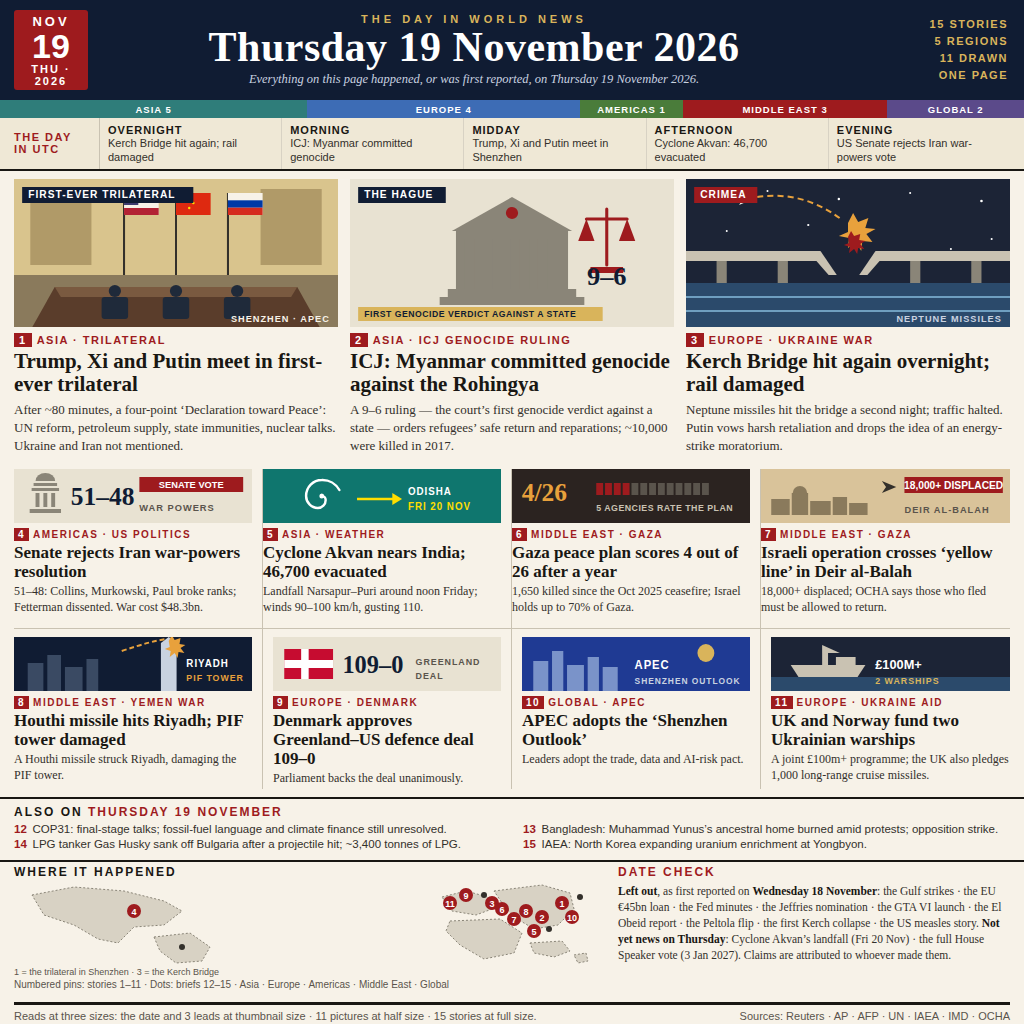
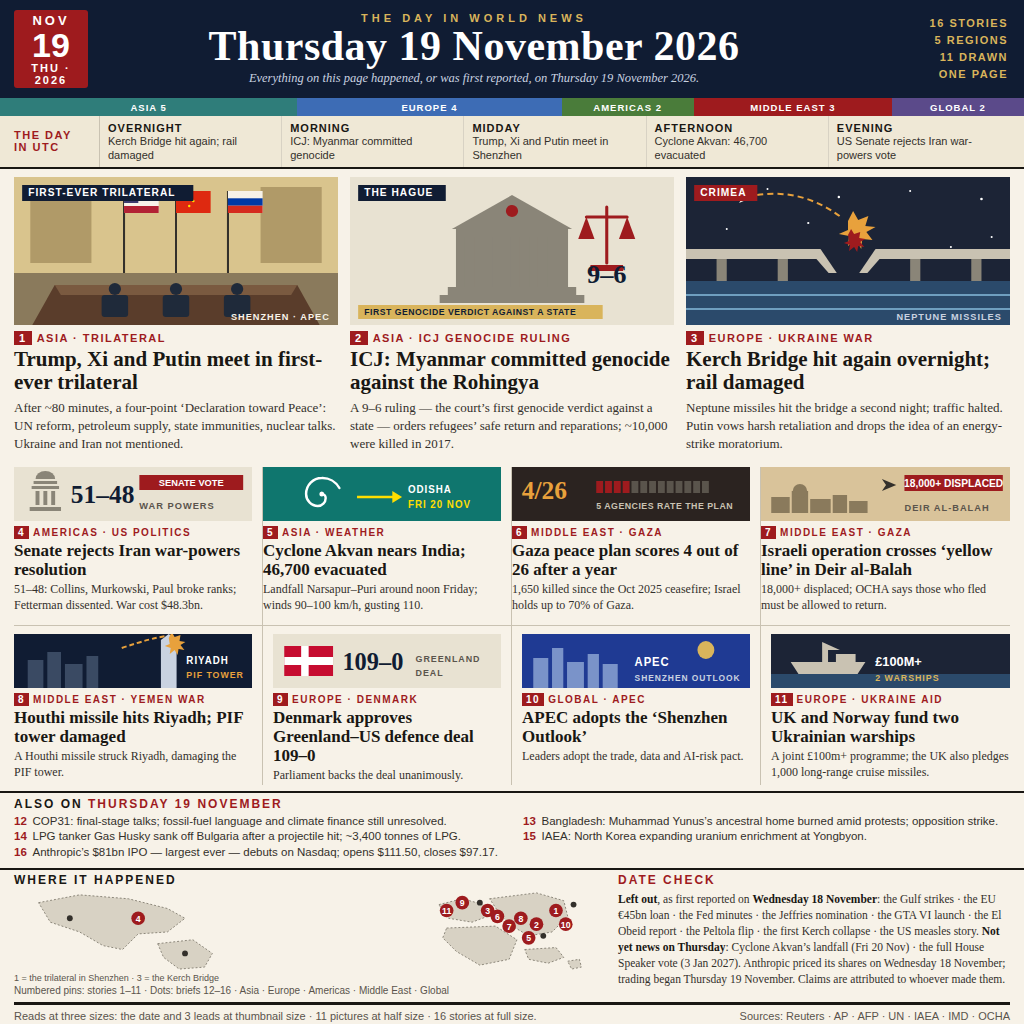
Add Anthropic IPO as brief 16 (16 stories); AMERICAS 1->2, map dot + DATE CHECK note

Changed region(s): [[0.0, 0.2188, 1.0, 0.9688], [0.0, 0.0, 1.0, 0.2188]]

diff --git a/README.md b/README.md
@@ -6,9 +6,9 @@
 
 Entry for the make.fun bounty [Sum up 19 November's world news in one image](https://make.fun/bounty/news-image-20261119).
 
-A dense newspaper-style image summing up the world's news of Thursday 19 November 2026 — 15 stories on one page: a navy masthead with the date, a "THE DAY IN UTC" timeline, three illustrated lead stories, eight cards, a numbered briefs strip, a "WHERE IT HAPPENED" map and a "DATE CHECK" footer.
+A dense newspaper-style image summing up the world's news of Thursday 19 November 2026 — 16 stories on one page: a navy masthead with the date, a "THE DAY IN UTC" timeline, three illustrated lead stories, eight cards, a numbered briefs strip, a "WHERE IT HAPPENED" map and a "DATE CHECK" footer.
 
-Leads: the first-ever Trump–Xi–Putin trilateral in Shenzhen ends in a four-point "Declaration toward Peace"; the ICJ rules Myanmar committed genocide against the Rohingya, 9–6; the Kerch Bridge is hit again overnight, rail damaged. Cards: the US Senate rejects the Iran war-powers resolution 51–48; Cyclone Akvan nears India with 46,700 evacuated; five aid agencies score the Gaza peace plan 4/26 after a year; an Israeli operation crosses the "yellow line" in Deir al-Balah, 18,000+ displaced; a Houthi missile hits Riyadh, damaging the PIF tower; Denmark approves the Greenland–US defence deal 109–0; APEC adopts the "Shenzhen Outlook"; the UK and Norway fund two Ukrainian warships. Briefs: COP31 final-stage talks; Muhammad Yunus's ancestral home burned in Bangladesh; the LPG tanker Gas Husky sank off Bulgaria; the IAEA says North Korea is expanding uranium enrichment at Yongbyon.
+Leads: the first-ever Trump–Xi–Putin trilateral in Shenzhen ends in a four-point "Declaration toward Peace"; the ICJ rules Myanmar committed genocide against the Rohingya, 9–6; the Kerch Bridge is hit again overnight, rail damaged. Cards: the US Senate rejects the Iran war-powers resolution 51–48; Cyclone Akvan nears India with 46,700 evacuated; five aid agencies score the Gaza peace plan 4/26 after a year; an Israeli operation crosses the "yellow line" in Deir al-Balah, 18,000+ displaced; a Houthi missile hits Riyadh, damaging the PIF tower; Denmark approves the Greenland–US defence deal 109–0; APEC adopts the "Shenzhen Outlook"; the UK and Norway fund two Ukrainian warships. Briefs: COP31 final-stage talks; Muhammad Yunus's ancestral home burned in Bangladesh; the LPG tanker Gas Husky sank off Bulgaria; the IAEA says North Korea is expanding uranium enrichment at Yongbyon; Anthropic's $81bn IPO — the largest ever — debuts on Nasdaq.
 
 Built in the dense front-page style of the 18 November entry — timeline strip, detailed flat illustrations per story, numbered briefs, world map and date check — using only verified facts. The image is drawn as a front page and the program copies it to the output directory unchanged.
 
